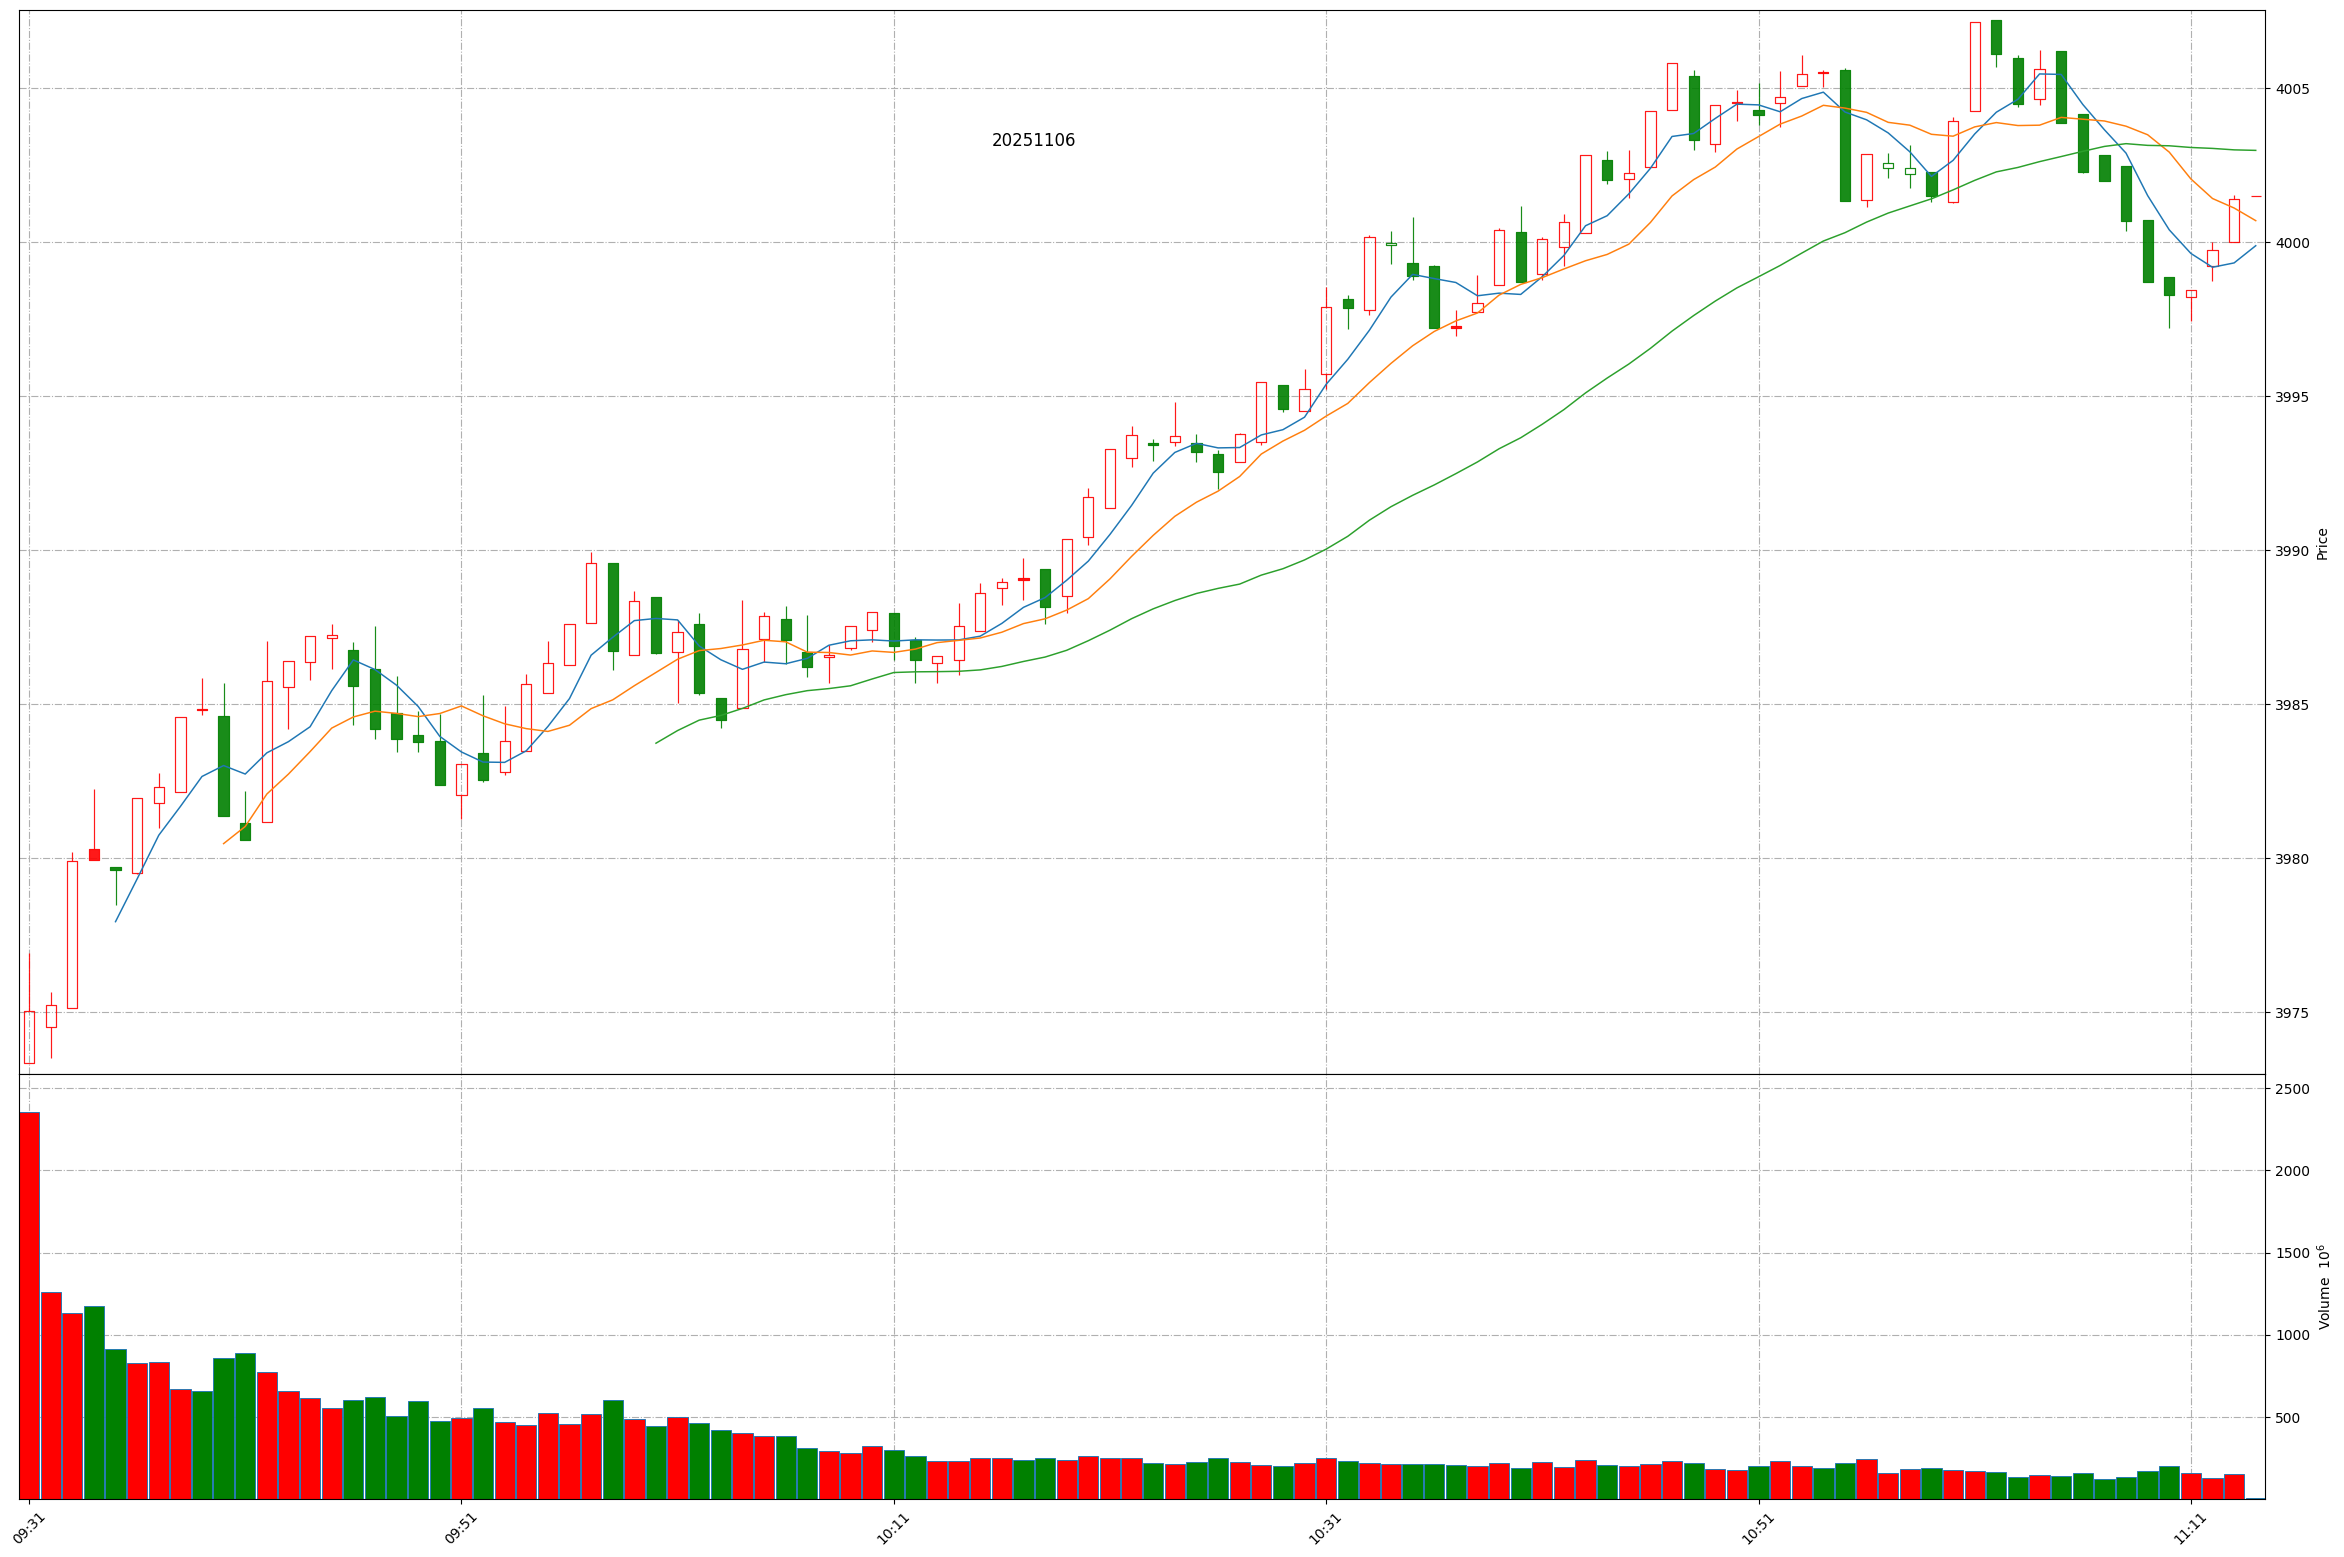
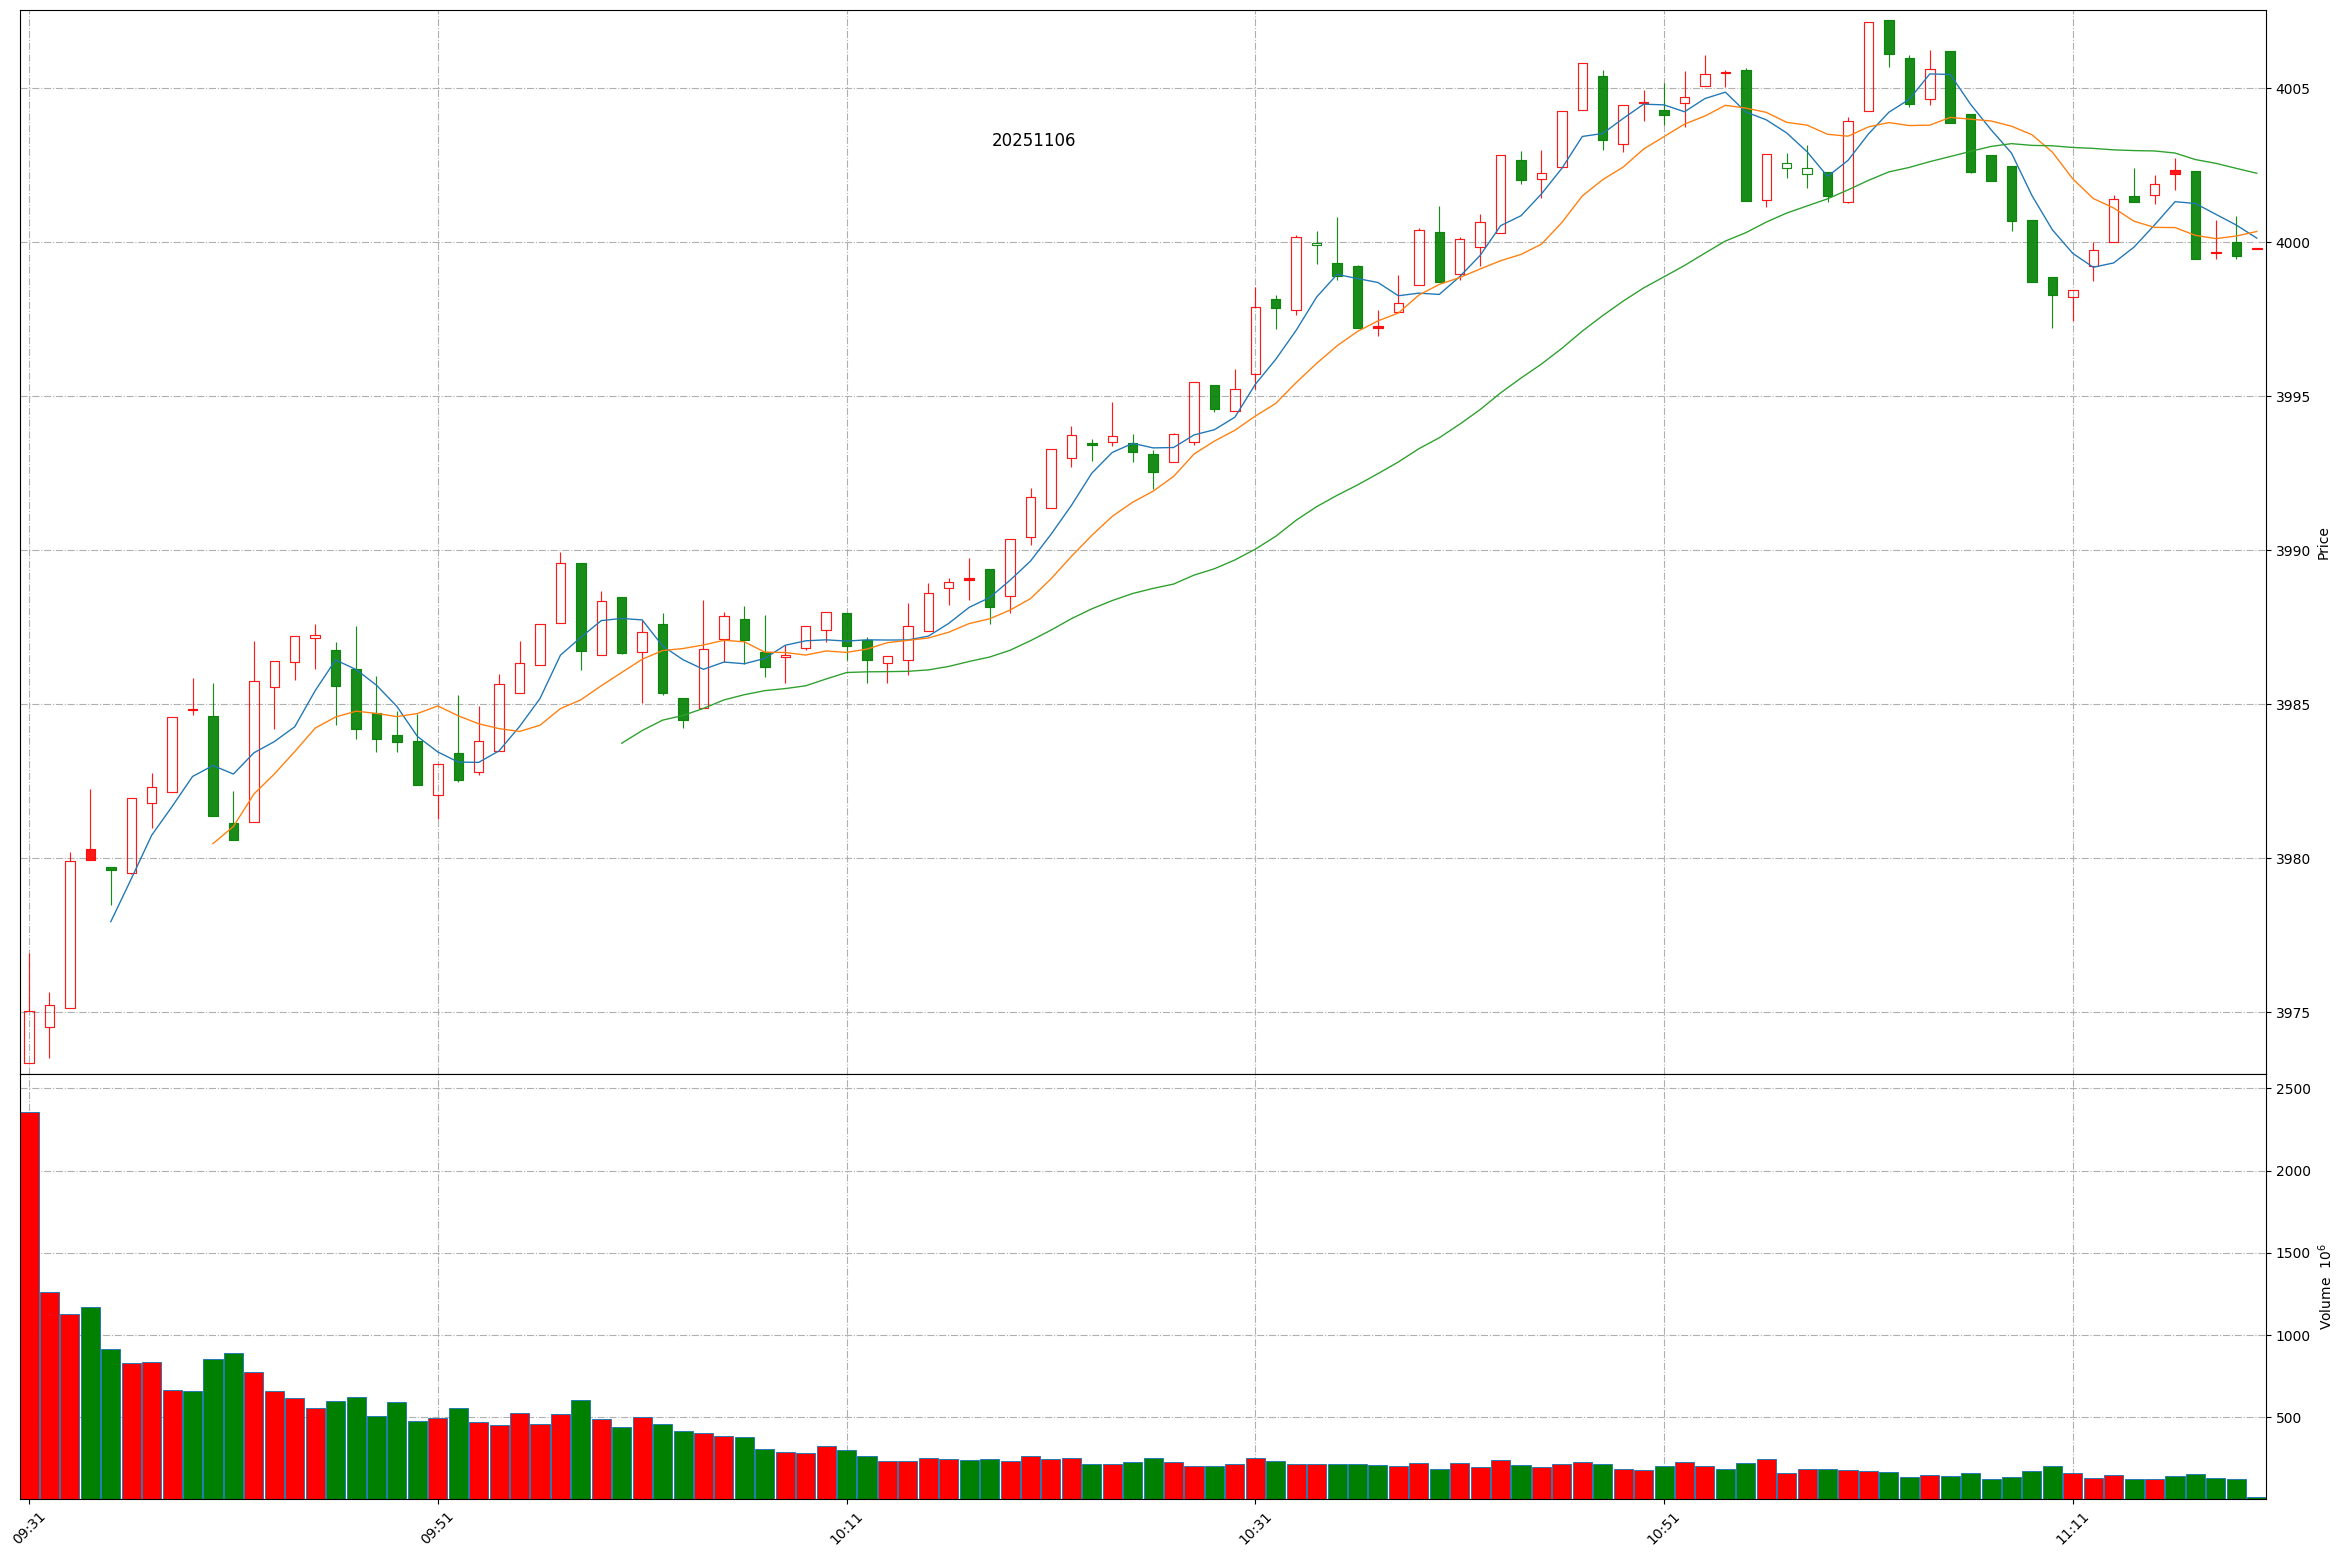
Github action update at 2025-11-06 11:19:27.

diff --git a/README.md b/README.md
@@ -1,11 +1,11 @@
 
 # Daily-A-share-market-quotes 每日 A 股指数（5min 更新）- 20251106
 
-### 上证指数 20251106 11:13
+### 上证指数 20251106 11:19
 ![](./fig/2025/11/20251106-sh000001.png)
 
-### 深证成指 20251106 11:13
+### 深证成指 20251106 11:19
 ![](./fig/2025/11/20251106-sz399001.png)
 
-### 北证50 20251106 11:13
+### 北证50 20251106 11:19
 ![](./fig/2025/11/20251106-bj899050.png)
